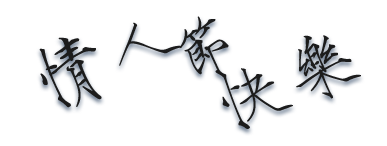
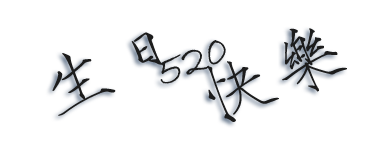
修改

Changed region(s): [[0.2791, 0.1096, 0.9302, 0.9315], [0.093, 0.2466, 0.3101, 0.8219]]

diff --git a/valentine/css/index.css b/valentine/css/index.css
@@ -1,2 +1,2 @@
-/*! normalize.css v5.0.0 | MIT License | github.com/necolas/normalize.css */html{font-family:sans-serif;line-height:1.15;-ms-text-size-adjust:100%;-webkit-text-size-adjust:100%}body{margin:0}article,aside,footer,header,nav,section{display:block}h1{font-size:2em;margin:0.67em 0}figcaption,figure,main{display:block}figure{margin:1em 40px}hr{box-sizing:content-box;height:0;overflow:visible}pre{font-family:monospace, monospace;font-size:1em}a,a:hover{background-color:transparent;-webkit-text-decoration-skip:objects}a:active,a:hover{outline-width:0}abbr[title]{border-bottom:none;text-decoration:underline;text-decoration:underline dotted}b,strong{font-weight:inherit}b,strong{font-weight:bolder}code,kbd,samp{font-family:monospace, monospace;font-size:1em}dfn{font-style:italic}mark{background-color:#ff0;color:#000}small{font-size:80%}sub,sup{font-size:75%;line-height:0;position:relative;vertical-align:baseline}sub{bottom:-0.25em}sup{top:-0.5em}audio,video{display:inline-block}audio:not([controls]){display:none;height:0}img{border-style:none}svg:not(:root){overflow:hidden}button,input,optgroup,select,textarea{font-family:sans-serif;font-size:100%;line-height:1.15;margin:0}button,input{overflow:visible}button,select{text-transform:none}button,html [type="button"],[type="reset"],[type="submit"]{-webkit-appearance:button}button::-moz-focus-inner,[type="button"]::-moz-focus-inner,[type="reset"]::-moz-focus-inner,[type="submit"]::-moz-focus-inner{border-style:none;padding:0}button:-moz-focusring,[type="button"]:-moz-focusring,[type="reset"]:-moz-focusring,[type="submit"]:-moz-focusring{outline:1px dotted ButtonText}fieldset{border:1px solid #c0c0c0;margin:0 2px;padding:0.35em 0.625em 0.75em}legend{box-sizing:border-box;color:inherit;display:table;max-width:100%;padding:0;white-space:normal}progress{display:inline-block;vertical-align:baseline}textarea{overflow:auto}[type="checkbox"],[type="radio"]{box-sizing:border-box;padding:0}[type="number"]::-webkit-inner-spin-button,[type="number"]::-webkit-outer-spin-button{height:auto}[type="search"]{-webkit-appearance:textfield;outline-offset:-2px}[type="search"]::-webkit-search-cancel-button,[type="search"]::-webkit-search-decoration{-webkit-appearance:none}::-webkit-file-upload-button{-webkit-appearance:button;font:inherit}details,menu{display:block}summary{display:list-item}canvas{display:inline-block}template{display:none}[hidden]{display:none}table{border-collapse:collapse}td,th{padding:0}h1,h2,h3,h4,h5,p,ul,ol{margin:0;padding:0;font-weight:normal}li{list-style:none}a,a:hover{text-decoration:none;cursor:pointer}em,i{font-style:normal}.clearfix:before,.clearfix:after{content:"\20";display:block;height:0;overflow:hidden}.clearfix:after{clear:both}.clearfix{zoom:1}html,body,.swiper-container{height:100%;width:100%}.snow-wrap img{display:block}.snow-wrap #particlesBg{position:absolute;left:0;top:0;z-index:10;background:rgba(255,255,255,0);background-size:100%;height:100%;width:100%;overflow:hidden}.snow-wrap .snowbg{position:absolute;bottom:0;left:0;z-index:0;height:100%;width:100%;overflow:hidden;animation:fadeIn 12s ease-out 0s}.snow-wrap .snowbg img{width:100%}.snow-wrap .name-zhou,.snow-wrap .name-li,.snow-wrap .slogan{position:absolute;z-index:1}.snow-wrap .name-zhou img,.snow-wrap .name-li img,.snow-wrap .slogan img{height:100%;width:100%}.snow-wrap .name-zhou{left:3.125rem;top:21.66667rem;height:5.375rem;width:1.875rem;animation:fadeInDown 3s ease-out 14s both}.snow-wrap .name-li{right:3.125rem;top:14.16667rem;height:3.66667rem;width:2.29167rem;animation:fadeInDown 3s ease-out 17s both}.snow-wrap .slogan{left:5rem;top:3.33333rem;height:5.5rem;width:14.58333rem;animation:fadeInDown 3s ease-out 20s both}.baby-cat{background:#f7f7f7}.baby-cat img{margin-top:-8.75rem;position:absolute;left:0;top:50%;display:block;height:17.54167rem;width:26.66667rem}.photo{background-repeat:no-repeat;background-size:100% auto;background-position:center}.photo:nth-child(3){background-size:auto 100%;background-image:url("../img/2.jpg")}.photo:nth-child(4){background-image:url("../img/3.jpg")}.photo:nth-child(5){background-size:auto 100%;background-image:url("../img/5.jpg")}.photo:nth-child(6){background-image:url("../img/4.jpg")}.photo:nth-child(7){background-size:auto 100%;background-image:url("../img/1.jpg")}.swiper-pagination-bullet{height:.33333rem;width:.33333rem}.swiper-container-horizontal>.swiper-pagination-bullets .swiper-pagination-bullet{margin:0 .16667rem}
+/*! normalize.css v5.0.0 | MIT License | github.com/necolas/normalize.css */html{font-family:sans-serif;line-height:1.15;-ms-text-size-adjust:100%;-webkit-text-size-adjust:100%}body{margin:0}article,aside,footer,header,nav,section{display:block}h1{font-size:2em;margin:0.67em 0}figcaption,figure,main{display:block}figure{margin:1em 40px}hr{box-sizing:content-box;height:0;overflow:visible}pre{font-family:monospace, monospace;font-size:1em}a,a:hover{background-color:transparent;-webkit-text-decoration-skip:objects}a:active,a:hover{outline-width:0}abbr[title]{border-bottom:none;text-decoration:underline;text-decoration:underline dotted}b,strong{font-weight:inherit}b,strong{font-weight:bolder}code,kbd,samp{font-family:monospace, monospace;font-size:1em}dfn{font-style:italic}mark{background-color:#ff0;color:#000}small{font-size:80%}sub,sup{font-size:75%;line-height:0;position:relative;vertical-align:baseline}sub{bottom:-0.25em}sup{top:-0.5em}audio,video{display:inline-block}audio:not([controls]){display:none;height:0}img{border-style:none}svg:not(:root){overflow:hidden}button,input,optgroup,select,textarea{font-family:sans-serif;font-size:100%;line-height:1.15;margin:0}button,input{overflow:visible}button,select{text-transform:none}button,html [type="button"],[type="reset"],[type="submit"]{-webkit-appearance:button}button::-moz-focus-inner,[type="button"]::-moz-focus-inner,[type="reset"]::-moz-focus-inner,[type="submit"]::-moz-focus-inner{border-style:none;padding:0}button:-moz-focusring,[type="button"]:-moz-focusring,[type="reset"]:-moz-focusring,[type="submit"]:-moz-focusring{outline:1px dotted ButtonText}fieldset{border:1px solid #c0c0c0;margin:0 2px;padding:0.35em 0.625em 0.75em}legend{box-sizing:border-box;color:inherit;display:table;max-width:100%;padding:0;white-space:normal}progress{display:inline-block;vertical-align:baseline}textarea{overflow:auto}[type="checkbox"],[type="radio"]{box-sizing:border-box;padding:0}[type="number"]::-webkit-inner-spin-button,[type="number"]::-webkit-outer-spin-button{height:auto}[type="search"]{-webkit-appearance:textfield;outline-offset:-2px}[type="search"]::-webkit-search-cancel-button,[type="search"]::-webkit-search-decoration{-webkit-appearance:none}::-webkit-file-upload-button{-webkit-appearance:button;font:inherit}details,menu{display:block}summary{display:list-item}canvas{display:inline-block}template{display:none}[hidden]{display:none}table{border-collapse:collapse}td,th{padding:0}h1,h2,h3,h4,h5,p,ul,ol{margin:0;padding:0;font-weight:normal}li{list-style:none}a,a:hover{text-decoration:none;cursor:pointer}em,i{font-style:normal}.clearfix:before,.clearfix:after{content:"\20";display:block;height:0;overflow:hidden}.clearfix:after{clear:both}.clearfix{zoom:1}html,body,.swiper-container{height:100%;width:100%}.snow-wrap img{display:block}.snow-wrap #particlesBg{position:absolute;left:0;top:0;z-index:10;background:rgba(255,255,255,0);background-size:100%;height:100%;width:100%;overflow:hidden}.snow-wrap .snowbg{position:absolute;bottom:0;left:0;z-index:0;background:url("../img/snow-bg.jpg") no-repeat bottom center;background-size:100% auto;height:100%;width:100%;overflow:hidden;animation:fadeIn 12s ease-out 0s}.snow-wrap .snowbg img{width:100%}.snow-wrap .name-zhou,.snow-wrap .name-li,.snow-wrap .slogan{position:absolute;z-index:1}.snow-wrap .name-zhou img,.snow-wrap .name-li img,.snow-wrap .slogan img{height:100%;width:100%}.snow-wrap .name-zhou{left:3.125rem;top:21.04167rem;height:5.375rem;width:1.875rem;animation:fadeInDown 3s ease-out 14s both}.snow-wrap .name-li{right:3.125rem;top:13.54167rem;height:3.66667rem;width:2.29167rem;animation:fadeInDown 3s ease-out 17s both}.snow-wrap .slogan{left:5rem;top:2.70833rem;height:5.5rem;width:14.58333rem;animation:fadeInDown 3s ease-out 20s both}.baby-cat{background:#f7f7f7}.baby-cat img{margin-top:-8.75rem;position:absolute;left:0;top:50%;display:block;height:17.54167rem;width:26.66667rem}.photo{background-repeat:no-repeat;background-size:100% auto;background-position:center}.photo:nth-child(3){background-size:auto 100%;background-image:url("../img/2.jpg")}.photo:nth-child(4){background-image:url("../img/3.jpg")}.photo:nth-child(5){background-size:auto 100%;background-image:url("../img/5.jpg")}.photo:nth-child(6){background-image:url("../img/4.jpg")}.photo:nth-child(7){background-size:auto 100%;background-image:url("../img/1.jpg")}.swiper-pagination-bullet{height:.33333rem;width:.33333rem}.swiper-container-horizontal>.swiper-pagination-bullets .swiper-pagination-bullet{margin:0 .16667rem}
 /*# sourceMappingURL=index.css.map */

diff --git a/valentine/scss/index.scss b/valentine/scss/index.scss
@@ -34,6 +34,8 @@ html, body, .swiper-container {
         bottom: 0;
         left: 0;
         z-index: 0;
+        background: url("../img/snow-bg.jpg") no-repeat bottom center;
+        background-size: 100% auto;
         height: 100%;
         width: 100%;
         overflow: hidden;
@@ -54,7 +56,7 @@ html, body, .swiper-container {
 
     .name-zhou {
         left: rem(75);
-        top: rem(520);
+        top: rem(505);
         height: rem(129);
         width: rem(45);
         animation: fadeInDown 3s ease-out 14s both;
@@ -62,7 +64,7 @@ html, body, .swiper-container {
 
     .name-li {
         right: rem(75);
-        top: rem(340);
+        top: rem(325);
         height: rem(88);
         width: rem(55);
         animation: fadeInDown 3s ease-out 17s both;
@@ -70,7 +72,7 @@ html, body, .swiper-container {
 
     .slogan {
         left: rem(120);
-        top: rem(80);
+        top: rem(65);
         height: rem(132);
         width: rem(350);
         animation: fadeInDown 3s ease-out 20s both;

diff --git a/valentine/index.html b/valentine/index.html
@@ -1,6 +1,7 @@
 <!DOCTYPE html>
 <html lang="en">
 <head>
+    <meta charset="UTF-8">
     <meta name="keywords" content="巧萌萌,巧宝宝">
     <meta name="description" content="">
     <meta name="author" content="zhoushuanglong, 124622297@qq.com">
@@ -44,7 +45,7 @@
             <div class="slogan"><img src="img/slogan.png"></div>
             <div class="name-zhou"><img src="img/zhou.png"></div>
             <div class="name-li"><img src="img/li.png"></div>
-            <div class="snowbg"><img src="img/snow-bg.jpg"></div>
+            <div class="snowbg"></div>
         </div>
         <div class="swiper-slide baby-cat"><img src="img/cat.jpg"/></div>
         <div class="swiper-slide photo"></div>
